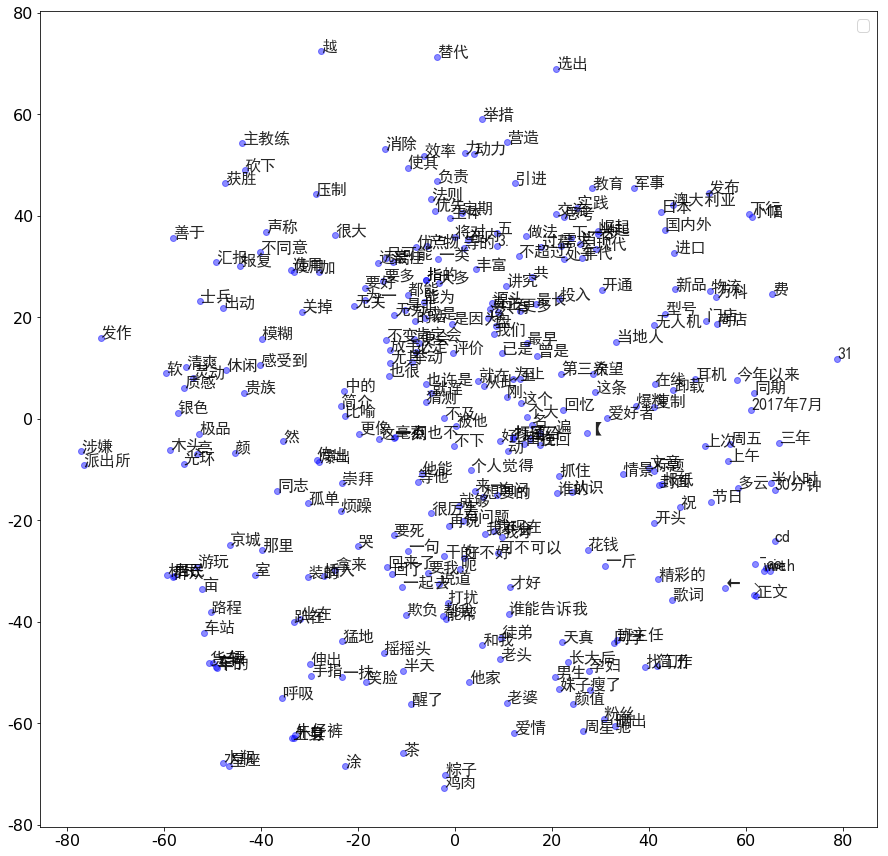
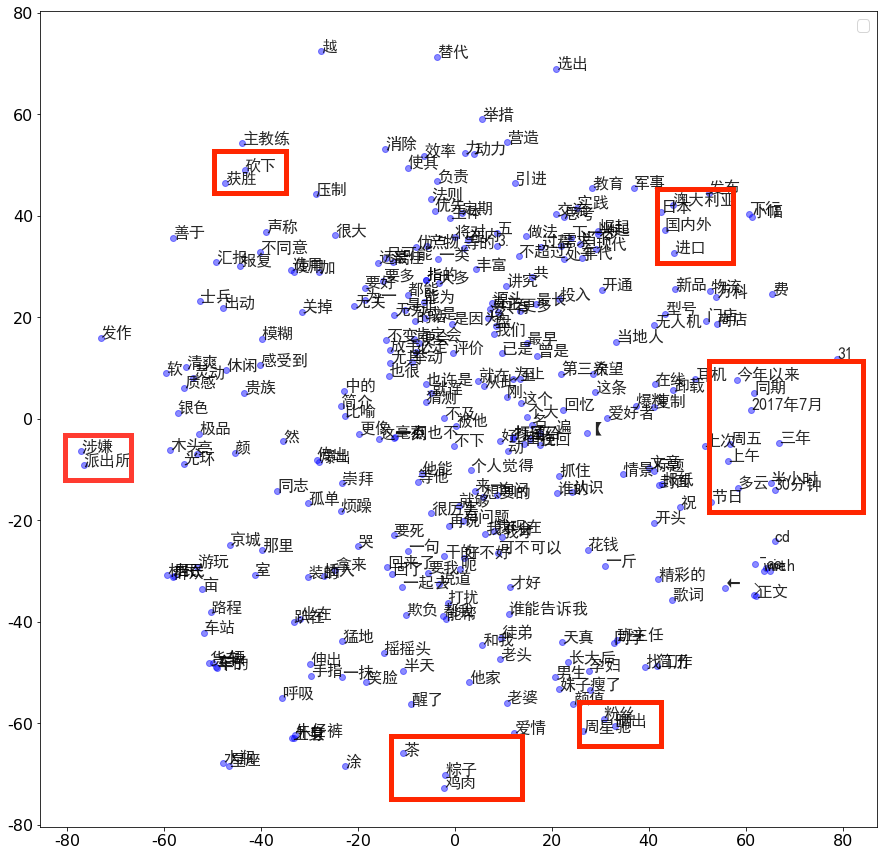
enhance picture

diff --git a/readme.md b/readme.md
@@ -2,7 +2,9 @@
 
 ### 腾讯词向量的可视化
 
-具体code可参考[Jupyter Notebook] (https://github.com/Flyfoxs/cut_word_vec/blob/master/notebook/visual.ipynb)
+具体code可参考[Jupyter Notebook](https://github.com/Flyfoxs/cut_word_vec/blob/master/notebook/visual.ipynb)
+
+由于原始维度比较多,词的个数也比较多,所以显示的比较拥挤. 但是还是可以很明显的看出意义相近的词有聚拢的趋势.
 
 ![Word Vec Screenshot](https://raw.githubusercontent.com/Flyfoxs/cut_word_vec/master/imgs/word_vec.png)
 
